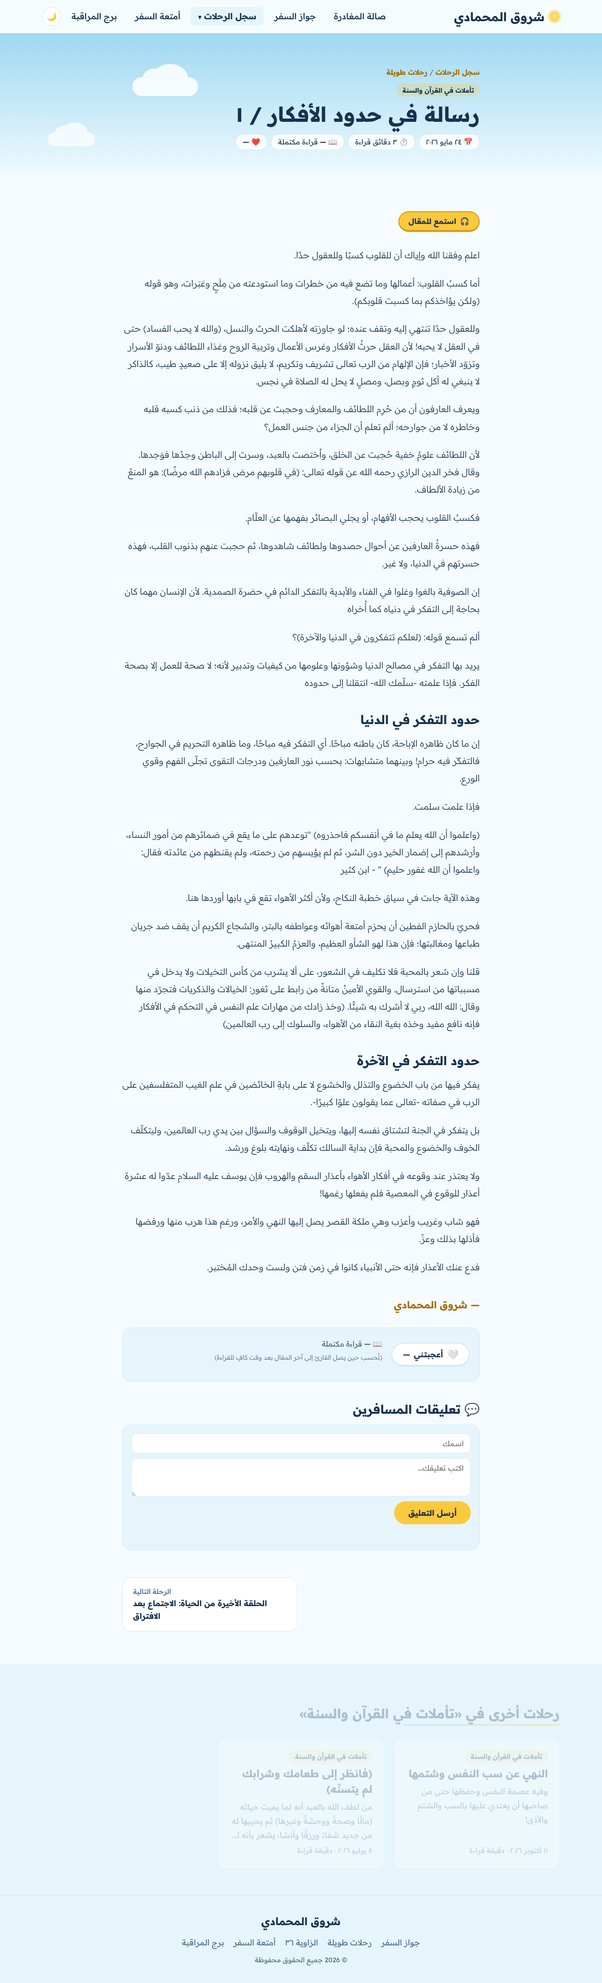
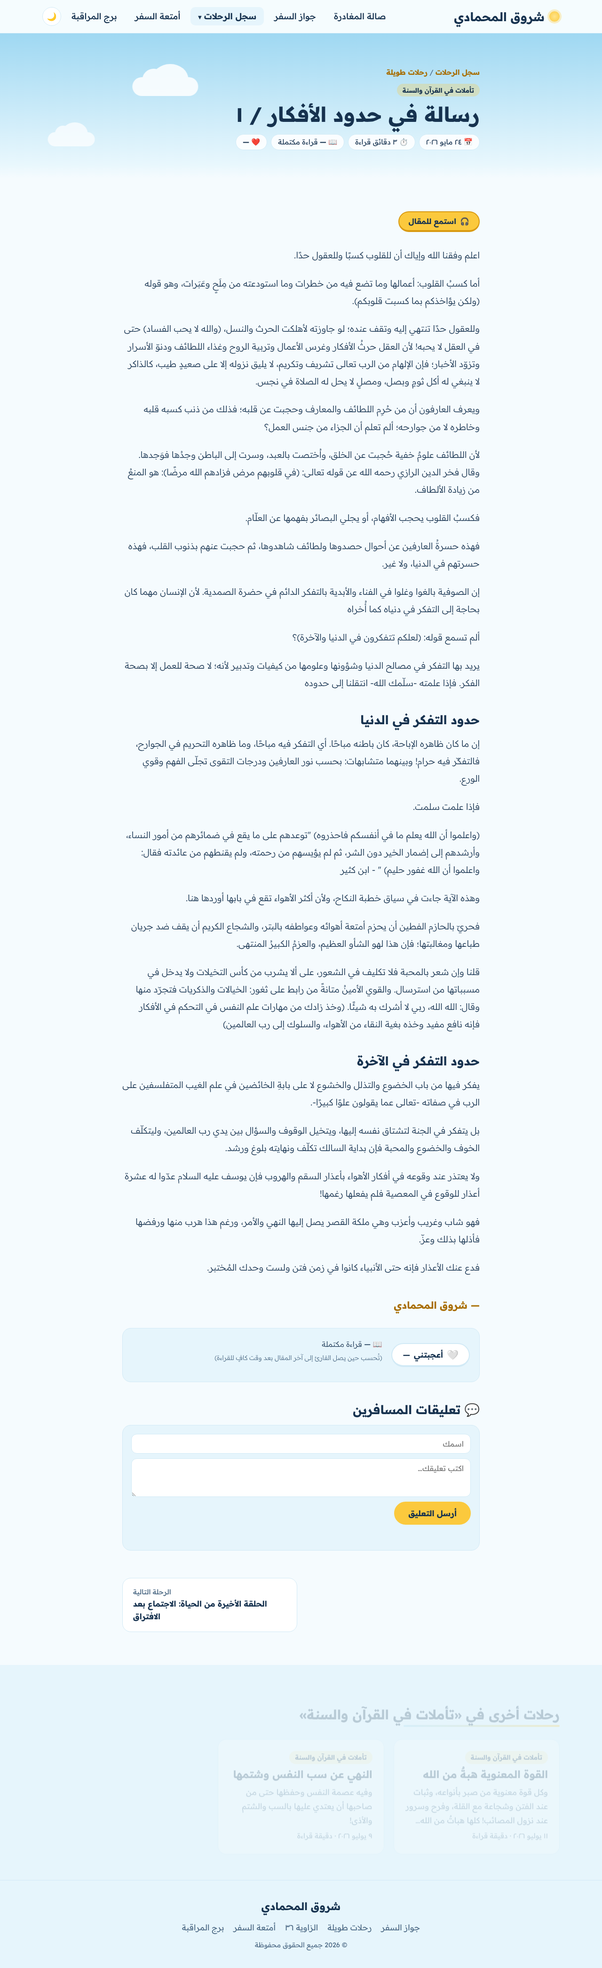
Add the article «القوة المعنوية هبةٌ من الله»
Claude-Session: https://claude.ai/code/session_0148avAa54TH8wvGnnB1ukQi

diff --git a/blog/articles/al-quwwa-al-manawiyya.html b/blog/articles/al-quwwa-al-manawiyya.html
@@ -1,0 +1,123 @@
+<!doctype html>
+<html lang="ar" dir="rtl">
+<head>
+  <meta charset="utf-8">
+  <meta name="viewport" content="width=device-width, initial-scale=1">
+  <title>القوة المعنوية هبةٌ من الله · شروق المحمادي</title>
+  <meta name="description" content="وكل قوة معنوية من صبر بأنواعه، وثبات عند الفتن وشجاعة مع القلة، وفرح وسرور عند نزول المصائب! كلها هباتٌ من الله تعالى وتأييد منه للعبد وليست من تلقاء نفسه">
+  <script>try{var t=localStorage.getItem("theme");if(t)document.documentElement.dataset.theme=t;}catch(e){}</script>
+  <link rel="preconnect" href="https://fonts.googleapis.com">
+  <link rel="preconnect" href="https://fonts.gstatic.com" crossorigin>
+  <link href="https://fonts.googleapis.com/css2?family=Readex+Pro:wght@300;400;500;600;700&family=Amiri+Quran&display=swap" rel="stylesheet">
+  <link rel="stylesheet" href="../../assets/styles.css">
+</head>
+<body>
+  <header class="site-header">
+    <div class="container nav">
+      <a href="../../index.html" class="logo"><span class="logo-sun" aria-hidden="true"></span>شروق المحمادي</a>
+      <button class="menu-toggle" aria-label="فتح القائمة" aria-expanded="false">☰</button>
+      <nav class="nav-links" aria-label="القائمة الرئيسية">
+        <a href="../../index.html">صالة المغادرة</a>
+        <a href="../../sira.html">جواز السفر</a>
+        <div class="has-sub">
+          <a href="../../blog/index.html" class="active">سجل الرحلات <span class="caret" aria-hidden="true">▾</span></a>
+          <div class="sub">
+            <a href="../../blog/articles.html" class="active">رحلات طويلة</a>
+            <a href="../../blog/zawiya-36.html">الزاوية ٣٦</a>
+          </div>
+        </div>
+        <a href="../../books.html">أمتعة السفر</a>
+        <a href="../../contact.html">برج المراقبة</a>
+        <button class="theme-toggle" aria-label="تبديل الوضع الليلي">🌙</button>
+      </nav>
+    </div>
+  </header>
+
+  <main>
+    <section class="page-hero article-hero">
+      <div class="clouds" aria-hidden="true"><span class="cloud c1"></span><span class="cloud c2"></span></div>
+      <div class="container narrow">
+        <nav class="crumbs" aria-label="مسار التنقل"><a href="../index.html">سجل الرحلات</a> / <a href="../articles.html">رحلات طويلة</a></nav>
+        <span class="tag">تأملات في القرآن والسنة</span>
+        <h1>القوة المعنوية هبةٌ من الله</h1>
+        <ul class="post-meta">
+          <li>📅 ١١ يوليو ٢٠٢٦</li>
+          <li>⏱ دقيقة قراءة</li>
+          <li>📖 <b class="read-count">…</b> قراءة مكتملة</li>
+          <li>❤ <b class="like-count">…</b></li>
+        </ul>
+      </div>
+    </section>
+
+    <article class="section" id="post" data-slug="al-quwwa-al-manawiyya" data-minutes="0.76">
+      <div class="container narrow prose">
+        <div class="listen" hidden>
+          <button class="listen-btn" type="button"><span class="listen-icon" aria-hidden="true">🎧</span> <span class="listen-label">استمع للمقال</span></button>
+          <button class="listen-stop" type="button" hidden>⏹ إيقاف</button>
+          <button class="listen-rate" type="button" hidden>السرعة ١×</button>
+          <span class="listen-status" role="status"></span>
+        </div>
+        <p>وكل قوة معنوية من صبر بأنواعه، وثبات عند الفتن وشجاعة مع القلة، وفرح وسرور عند نزول المصائب! كلها هباتٌ من الله تعالى وتأييد منه للعبد وليست من تلقاء نفسه</p>
+        <p>ألم تسمع قوله: (هو الذي أنزل السكينة في قلوب المؤمنين) ؟وقوله (واصبر وما صبرك إلا بالله)</p>
+        <p>وهذا التأييد ينزل على روح المؤمن إذا امتلأت بروح القرآن "والتَّأْيِيدُ التَّقْوِيَةُ والإقْدارُ عَلى العَمَلِ النَّفْسِيِّ وهو مُشْتَقٌّ مِنَ الأيْدِ وهو القُوَّةُ قالَ تَعالى ﴿واذْكُرْ عَبْدَنا داوُدَ ذا الأيْدِ﴾ [ص: ١٧] والأيْدُ مُشْتَقٌّ مِنَ اليَدِ لِأنَّها آلَةُ القُدْرَةِ والأحْسَنُ أنْ يَكُونَ مُشْتَقًّا مِنَ اليَدِ أيْ جَعَلَهُ ذا يَدٍ أيْ قُوَّةٍ، والمُرادُ هُنا قُوَّةٌ مَعْنَوِيَّةٌ وهي قُوَّةُ الرِّسالَةِ وقُوَّةُ الصَّبْرِ عَلى أذى قَوْمِهِ" - ابن عاشور</p>
+        <p>فالصبر على حمل رسالة القرآن والعمل بها والتغذي والتدبر والفهم هو من تأييد الله وتوفيقه لا من العبد نفسه، والصبر على حمل الرسالة هو الذي يعطي الصبر بالأنواع الأُخر: صبر المصيبة وعن المعصية. فهما ثمرة الصبر على الطاعة وأعظم وأقرب طاعة القرآن.</p>
+        <p class="signature">— شروق المحمادي</p>
+        <div class="engage">
+          <button class="like-btn" type="button" aria-pressed="false"><span class="heart" aria-hidden="true">🤍</span> أعجبتني <b class="like-count">…</b></button>
+          <p class="reads-note">📖 <b class="read-count">…</b> قراءة مكتملة <small>(تُحسب حين يصل القارئ إلى آخر المقال بعد وقت كافٍ للقراءة)</small></p>
+        </div>
+        <section class="comments" hidden aria-labelledby="comments-title">
+          <h2 id="comments-title">💬 تعليقات المسافرين</h2>
+          <form class="comment-form" novalidate>
+            <input name="name" type="text" maxlength="40" placeholder="اسمك" aria-label="الاسم" autocomplete="nickname">
+            <textarea name="body" rows="3" maxlength="1000" placeholder="اكتب تعليقك…" aria-label="التعليق"></textarea>
+            <input name="website" class="hp" type="text" tabindex="-1" autocomplete="off" aria-hidden="true">
+            <button type="submit" class="btn btn-primary">أرسل التعليق</button>
+            <p class="comment-status" role="status"></p>
+          </form>
+          <ol class="comment-list"></ol>
+          <p class="no-comments" hidden>لا تعليقات بعد… كن أول من يعلّق ✈</p>
+        </section>
+        <nav class="post-nav" aria-label="تنقل بين الرحلات"><a class="pn prev" href="an-nahy-an-sabb-an-nafs.html"><span>الرحلة السابقة</span>النهي عن سب النفس وشتمها</a></nav>
+      </div>
+    </article>
+
+    <section class="section alt">
+      <div class="container">
+        <h2 class="section-title">رحلات أخرى في «تأملات في القرآن والسنة»</h2>
+        <div class="posts">
+          <article class="post-card" data-tag="تأملات في القرآن والسنة">
+            <span class="tag">تأملات في القرآن والسنة</span>
+            <h3><a class="stretched" href="../articles/an-nahy-an-sabb-an-nafs.html">النهي عن سب النفس وشتمها</a></h3>
+            <p>وفيه عصمة النفس وحفظها حتى من صاحبها أن يعتدي عليها بالسب والشتم والأذى!</p>
+            <p class="meta">٩ يوليو ٢٠٢٦ · دقيقة قراءة</p>
+          </article>
+          <article class="post-card" data-tag="تأملات في القرآن والسنة">
+            <span class="tag">تأملات في القرآن والسنة</span>
+            <h3><a class="stretched" href="../articles/lam-yatasannah.html">(فانظر إلى طعامك وشرابك لم يتسنّه)</a></h3>
+            <p>من لطف الله بالعبد أنه لما يميت حياته (مالًا وصحةً ووحشةً وغيرها) ثم يحييها له من جديد شفاءً ورزقًا وأنسًا، يشعر بأنه لم ينقص منه شيء وبالفعل لم ينقص منه شيء، لأن الله جبره أعظم وكرمه أزود.</p>
+            <p class="meta">٨ يوليو ٢٠٢٦ · دقيقة قراءة</p>
+          </article>
+        </div>
+      </div>
+    </section>
+
+  </main>
+
+  <footer class="site-footer">
+    <div class="container footer-inner">
+      <p class="footer-name">شروق المحمادي</p>
+      <nav class="footer-links" aria-label="روابط التذييل">
+        <a href="../../sira.html">جواز السفر</a>
+        <a href="../../blog/articles.html">رحلات طويلة</a>
+        <a href="../../blog/zawiya-36.html">الزاوية ٣٦</a>
+        <a href="../../books.html">أمتعة السفر</a>
+        <a href="../../contact.html">برج المراقبة</a>
+      </nav>
+      <p class="copy">© <span class="year"></span> جميع الحقوق محفوظة</p>
+    </div>
+  </footer>
+
+  <script src="../../assets/script.js"></script>
+</body>
+</html>

diff --git a/blog/articles/an-nahy-an-sabb-an-nafs.html b/blog/articles/an-nahy-an-sabb-an-nafs.html
@@ -77,7 +77,7 @@
           <ol class="comment-list"></ol>
           <p class="no-comments" hidden>لا تعليقات بعد… كن أول من يعلّق ✈</p>
         </section>
-        <nav class="post-nav" aria-label="تنقل بين الرحلات"><a class="pn prev" href="lam-yatasannah.html"><span>الرحلة السابقة</span>(فانظر إلى طعامك وشرابك لم يتسنّه)</a></nav>
+        <nav class="post-nav" aria-label="تنقل بين الرحلات"><a class="pn prev" href="lam-yatasannah.html"><span>الرحلة السابقة</span>(فانظر إلى طعامك وشرابك لم يتسنّه)</a><a class="pn next" href="al-quwwa-al-manawiyya.html"><span>الرحلة التالية</span>القوة المعنوية هبةٌ من الله</a></nav>
       </div>
     </article>
 
@@ -87,15 +87,15 @@
         <div class="posts">
           <article class="post-card" data-tag="تأملات في القرآن والسنة">
             <span class="tag">تأملات في القرآن والسنة</span>
-            <h3><a class="stretched" href="../articles/lam-yatasannah.html">(فانظر إلى طعامك وشرابك لم يتسنّه)</a></h3>
-            <p>من لطف الله بالعبد أنه لما يميت حياته (مالًا وصحةً ووحشةً وغيرها) ثم يحييها له من جديد شفاءً ورزقًا وأنسًا، يشعر بأنه لم ينقص منه شيء وبالفعل لم ينقص منه شيء، لأن الله جبره أعظم وكرمه أزود.</p>
-            <p class="meta">٨ يوليو ٢٠٢٦ · دقيقة قراءة</p>
+            <h3><a class="stretched" href="../articles/al-quwwa-al-manawiyya.html">القوة المعنوية هبةٌ من الله</a></h3>
+            <p>وكل قوة معنوية من صبر بأنواعه، وثبات عند الفتن وشجاعة مع القلة، وفرح وسرور عند نزول المصائب! كلها هباتٌ من الله تعالى وتأييد منه للعبد وليست من تلقاء نفسه</p>
+            <p class="meta">١١ يوليو ٢٠٢٦ · دقيقة قراءة</p>
           </article>
           <article class="post-card" data-tag="تأملات في القرآن والسنة">
             <span class="tag">تأملات في القرآن والسنة</span>
-            <h3><a class="stretched" href="../articles/fasbir-inna-wad-allah-haq.html">تدبر في قوله تعالى (فاصبر إن وعد الله حق ولا يستخفنك الذين لا يوقنون)</a></h3>
-            <p>التفسير: وعد الله لك بالنصر عليهم حق لا شك فيه</p>
-            <p class="meta">٦ يوليو ٢٠٢٦ · دقيقة قراءة</p>
+            <h3><a class="stretched" href="../articles/lam-yatasannah.html">(فانظر إلى طعامك وشرابك لم يتسنّه)</a></h3>
+            <p>من لطف الله بالعبد أنه لما يميت حياته (مالًا وصحةً ووحشةً وغيرها) ثم يحييها له من جديد شفاءً ورزقًا وأنسًا، يشعر بأنه لم ينقص منه شيء وبالفعل لم ينقص منه شيء، لأن الله جبره أعظم وكرمه أزود.</p>
+            <p class="meta">٨ يوليو ٢٠٢٦ · دقيقة قراءة</p>
           </article>
         </div>
       </div>

diff --git a/blog/index.html b/blog/index.html
@@ -50,7 +50,7 @@
             <span class="door-icon">✍</span>
             <h2>رحلات طويلة</h2>
             <p>نصوص أطول أتعمّق فيها في فكرة أو تجربة أو كتاب.</p>
-            <span class="count">١١ رحلات</span>
+            <span class="count">١٢ رحلات</span>
           </a>
           <a class="blog-door night" href="zawiya-36.html">
             <span class="door-icon">🌙</span>
@@ -71,6 +71,12 @@
         <div class="posts">
           <article class="post-card" data-tag="تأملات في القرآن والسنة">
             <span class="tag">تأملات في القرآن والسنة</span>
+            <h3><a class="stretched" href="articles/al-quwwa-al-manawiyya.html">القوة المعنوية هبةٌ من الله</a></h3>
+            <p>وكل قوة معنوية من صبر بأنواعه، وثبات عند الفتن وشجاعة مع القلة، وفرح وسرور عند نزول المصائب! كلها هباتٌ من الله تعالى وتأييد منه للعبد وليست من تلقاء نفسه</p>
+            <p class="meta">١١ يوليو ٢٠٢٦ · دقيقة قراءة</p>
+          </article>
+          <article class="post-card" data-tag="تأملات في القرآن والسنة">
+            <span class="tag">تأملات في القرآن والسنة</span>
             <h3><a class="stretched" href="articles/an-nahy-an-sabb-an-nafs.html">النهي عن سب النفس وشتمها</a></h3>
             <p>وفيه عصمة النفس وحفظها حتى من صاحبها أن يعتدي عليها بالسب والشتم والأذى!</p>
             <p class="meta">٩ يوليو ٢٠٢٦ · دقيقة قراءة</p>
@@ -80,12 +86,6 @@
             <h3><a class="stretched" href="articles/lam-yatasannah.html">(فانظر إلى طعامك وشرابك لم يتسنّه)</a></h3>
             <p>من لطف الله بالعبد أنه لما يميت حياته (مالًا وصحةً ووحشةً وغيرها) ثم يحييها له من جديد شفاءً ورزقًا وأنسًا، يشعر بأنه لم ينقص منه شيء وبالفعل لم ينقص منه شيء، لأن الله جبره أعظم وكرمه أزود.</p>
             <p class="meta">٨ يوليو ٢٠٢٦ · دقيقة قراءة</p>
-          </article>
-          <article class="post-card" data-tag="قصائد">
-            <span class="tag">قصائد</span>
-            <h3><a class="stretched" href="articles/ijal-ad-dunya.html">اِجْعَلِ الدُّنْيَا وَرَاءَ ظَهْرِكْ</a></h3>
-            <p>اِجْعَلِ الدُّنْيَا وَرَاءَ ظَهْرِكْ / وَقُلِ: اللهُ أَكْبَرْ!</p>
-            <p class="meta">٧ يوليو ٢٠٢٦ · دقيقة قراءة</p>
           </article>
         </div>
       </div>

diff --git a/index.html b/index.html
@@ -77,6 +77,12 @@
         <div class="posts">
           <article class="post-card" data-tag="تأملات في القرآن والسنة">
             <span class="tag">تأملات في القرآن والسنة</span>
+            <h3><a class="stretched" href="blog/articles/al-quwwa-al-manawiyya.html">القوة المعنوية هبةٌ من الله</a></h3>
+            <p>وكل قوة معنوية من صبر بأنواعه، وثبات عند الفتن وشجاعة مع القلة، وفرح وسرور عند نزول المصائب! كلها هباتٌ من الله تعالى وتأييد منه للعبد وليست من تلقاء نفسه</p>
+            <p class="meta">١١ يوليو ٢٠٢٦ · دقيقة قراءة</p>
+          </article>
+          <article class="post-card" data-tag="تأملات في القرآن والسنة">
+            <span class="tag">تأملات في القرآن والسنة</span>
             <h3><a class="stretched" href="blog/articles/an-nahy-an-sabb-an-nafs.html">النهي عن سب النفس وشتمها</a></h3>
             <p>وفيه عصمة النفس وحفظها حتى من صاحبها أن يعتدي عليها بالسب والشتم والأذى!</p>
             <p class="meta">٩ يوليو ٢٠٢٦ · دقيقة قراءة</p>
@@ -86,12 +92,6 @@
             <h3><a class="stretched" href="blog/articles/lam-yatasannah.html">(فانظر إلى طعامك وشرابك لم يتسنّه)</a></h3>
             <p>من لطف الله بالعبد أنه لما يميت حياته (مالًا وصحةً ووحشةً وغيرها) ثم يحييها له من جديد شفاءً ورزقًا وأنسًا، يشعر بأنه لم ينقص منه شيء وبالفعل لم ينقص منه شيء، لأن الله جبره أعظم وكرمه أزود.</p>
             <p class="meta">٨ يوليو ٢٠٢٦ · دقيقة قراءة</p>
-          </article>
-          <article class="post-card" data-tag="قصائد">
-            <span class="tag">قصائد</span>
-            <h3><a class="stretched" href="blog/articles/ijal-ad-dunya.html">اِجْعَلِ الدُّنْيَا وَرَاءَ ظَهْرِكْ</a></h3>
-            <p>اِجْعَلِ الدُّنْيَا وَرَاءَ ظَهْرِكْ / وَقُلِ: اللهُ أَكْبَرْ!</p>
-            <p class="meta">٧ يوليو ٢٠٢٦ · دقيقة قراءة</p>
           </article>
         </div>
       </div>

diff --git a/blog/articles/al-ijtima-bad-al-iftiraq.html b/blog/articles/al-ijtima-bad-al-iftiraq.html
@@ -149,15 +149,15 @@
         <div class="posts">
           <article class="post-card" data-tag="تأملات في القرآن والسنة">
             <span class="tag">تأملات في القرآن والسنة</span>
-            <h3><a class="stretched" href="../articles/an-nahy-an-sabb-an-nafs.html">النهي عن سب النفس وشتمها</a></h3>
-            <p>وفيه عصمة النفس وحفظها حتى من صاحبها أن يعتدي عليها بالسب والشتم والأذى!</p>
-            <p class="meta">٩ يوليو ٢٠٢٦ · دقيقة قراءة</p>
+            <h3><a class="stretched" href="../articles/al-quwwa-al-manawiyya.html">القوة المعنوية هبةٌ من الله</a></h3>
+            <p>وكل قوة معنوية من صبر بأنواعه، وثبات عند الفتن وشجاعة مع القلة، وفرح وسرور عند نزول المصائب! كلها هباتٌ من الله تعالى وتأييد منه للعبد وليست من تلقاء نفسه</p>
+            <p class="meta">١١ يوليو ٢٠٢٦ · دقيقة قراءة</p>
           </article>
           <article class="post-card" data-tag="تأملات في القرآن والسنة">
             <span class="tag">تأملات في القرآن والسنة</span>
-            <h3><a class="stretched" href="../articles/lam-yatasannah.html">(فانظر إلى طعامك وشرابك لم يتسنّه)</a></h3>
-            <p>من لطف الله بالعبد أنه لما يميت حياته (مالًا وصحةً ووحشةً وغيرها) ثم يحييها له من جديد شفاءً ورزقًا وأنسًا، يشعر بأنه لم ينقص منه شيء وبالفعل لم ينقص منه شيء، لأن الله جبره أعظم وكرمه أزود.</p>
-            <p class="meta">٨ يوليو ٢٠٢٦ · دقيقة قراءة</p>
+            <h3><a class="stretched" href="../articles/an-nahy-an-sabb-an-nafs.html">النهي عن سب النفس وشتمها</a></h3>
+            <p>وفيه عصمة النفس وحفظها حتى من صاحبها أن يعتدي عليها بالسب والشتم والأذى!</p>
+            <p class="meta">٩ يوليو ٢٠٢٦ · دقيقة قراءة</p>
           </article>
         </div>
       </div>

diff --git a/blog/articles/aw-ka-sayyib.html b/blog/articles/aw-ka-sayyib.html
@@ -100,15 +100,15 @@
         <div class="posts">
           <article class="post-card" data-tag="تأملات في القرآن والسنة">
             <span class="tag">تأملات في القرآن والسنة</span>
-            <h3><a class="stretched" href="../articles/an-nahy-an-sabb-an-nafs.html">النهي عن سب النفس وشتمها</a></h3>
-            <p>وفيه عصمة النفس وحفظها حتى من صاحبها أن يعتدي عليها بالسب والشتم والأذى!</p>
-            <p class="meta">٩ يوليو ٢٠٢٦ · دقيقة قراءة</p>
+            <h3><a class="stretched" href="../articles/al-quwwa-al-manawiyya.html">القوة المعنوية هبةٌ من الله</a></h3>
+            <p>وكل قوة معنوية من صبر بأنواعه، وثبات عند الفتن وشجاعة مع القلة، وفرح وسرور عند نزول المصائب! كلها هباتٌ من الله تعالى وتأييد منه للعبد وليست من تلقاء نفسه</p>
+            <p class="meta">١١ يوليو ٢٠٢٦ · دقيقة قراءة</p>
           </article>
           <article class="post-card" data-tag="تأملات في القرآن والسنة">
             <span class="tag">تأملات في القرآن والسنة</span>
-            <h3><a class="stretched" href="../articles/lam-yatasannah.html">(فانظر إلى طعامك وشرابك لم يتسنّه)</a></h3>
-            <p>من لطف الله بالعبد أنه لما يميت حياته (مالًا وصحةً ووحشةً وغيرها) ثم يحييها له من جديد شفاءً ورزقًا وأنسًا، يشعر بأنه لم ينقص منه شيء وبالفعل لم ينقص منه شيء، لأن الله جبره أعظم وكرمه أزود.</p>
-            <p class="meta">٨ يوليو ٢٠٢٦ · دقيقة قراءة</p>
+            <h3><a class="stretched" href="../articles/an-nahy-an-sabb-an-nafs.html">النهي عن سب النفس وشتمها</a></h3>
+            <p>وفيه عصمة النفس وحفظها حتى من صاحبها أن يعتدي عليها بالسب والشتم والأذى!</p>
+            <p class="meta">٩ يوليو ٢٠٢٦ · دقيقة قراءة</p>
           </article>
         </div>
       </div>

diff --git a/blog/articles/hudud-al-afkar-1.html b/blog/articles/hudud-al-afkar-1.html
@@ -107,15 +107,15 @@
         <div class="posts">
           <article class="post-card" data-tag="تأملات في القرآن والسنة">
             <span class="tag">تأملات في القرآن والسنة</span>
-            <h3><a class="stretched" href="../articles/an-nahy-an-sabb-an-nafs.html">النهي عن سب النفس وشتمها</a></h3>
-            <p>وفيه عصمة النفس وحفظها حتى من صاحبها أن يعتدي عليها بالسب والشتم والأذى!</p>
-            <p class="meta">٩ يوليو ٢٠٢٦ · دقيقة قراءة</p>
+            <h3><a class="stretched" href="../articles/al-quwwa-al-manawiyya.html">القوة المعنوية هبةٌ من الله</a></h3>
+            <p>وكل قوة معنوية من صبر بأنواعه، وثبات عند الفتن وشجاعة مع القلة، وفرح وسرور عند نزول المصائب! كلها هباتٌ من الله تعالى وتأييد منه للعبد وليست من تلقاء نفسه</p>
+            <p class="meta">١١ يوليو ٢٠٢٦ · دقيقة قراءة</p>
           </article>
           <article class="post-card" data-tag="تأملات في القرآن والسنة">
             <span class="tag">تأملات في القرآن والسنة</span>
-            <h3><a class="stretched" href="../articles/lam-yatasannah.html">(فانظر إلى طعامك وشرابك لم يتسنّه)</a></h3>
-            <p>من لطف الله بالعبد أنه لما يميت حياته (مالًا وصحةً ووحشةً وغيرها) ثم يحييها له من جديد شفاءً ورزقًا وأنسًا، يشعر بأنه لم ينقص منه شيء وبالفعل لم ينقص منه شيء، لأن الله جبره أعظم وكرمه أزود.</p>
-            <p class="meta">٨ يوليو ٢٠٢٦ · دقيقة قراءة</p>
+            <h3><a class="stretched" href="../articles/an-nahy-an-sabb-an-nafs.html">النهي عن سب النفس وشتمها</a></h3>
+            <p>وفيه عصمة النفس وحفظها حتى من صاحبها أن يعتدي عليها بالسب والشتم والأذى!</p>
+            <p class="meta">٩ يوليو ٢٠٢٦ · دقيقة قراءة</p>
           </article>
         </div>
       </div>

diff --git a/blog/articles/al-ghina-bil-quran.html b/blog/articles/al-ghina-bil-quran.html
@@ -97,15 +97,15 @@
         <div class="posts">
           <article class="post-card" data-tag="تأملات في القرآن والسنة">
             <span class="tag">تأملات في القرآن والسنة</span>
-            <h3><a class="stretched" href="../articles/an-nahy-an-sabb-an-nafs.html">النهي عن سب النفس وشتمها</a></h3>
-            <p>وفيه عصمة النفس وحفظها حتى من صاحبها أن يعتدي عليها بالسب والشتم والأذى!</p>
-            <p class="meta">٩ يوليو ٢٠٢٦ · دقيقة قراءة</p>
+            <h3><a class="stretched" href="../articles/al-quwwa-al-manawiyya.html">القوة المعنوية هبةٌ من الله</a></h3>
+            <p>وكل قوة معنوية من صبر بأنواعه، وثبات عند الفتن وشجاعة مع القلة، وفرح وسرور عند نزول المصائب! كلها هباتٌ من الله تعالى وتأييد منه للعبد وليست من تلقاء نفسه</p>
+            <p class="meta">١١ يوليو ٢٠٢٦ · دقيقة قراءة</p>
           </article>
           <article class="post-card" data-tag="تأملات في القرآن والسنة">
             <span class="tag">تأملات في القرآن والسنة</span>
-            <h3><a class="stretched" href="../articles/lam-yatasannah.html">(فانظر إلى طعامك وشرابك لم يتسنّه)</a></h3>
-            <p>من لطف الله بالعبد أنه لما يميت حياته (مالًا وصحةً ووحشةً وغيرها) ثم يحييها له من جديد شفاءً ورزقًا وأنسًا، يشعر بأنه لم ينقص منه شيء وبالفعل لم ينقص منه شيء، لأن الله جبره أعظم وكرمه أزود.</p>
-            <p class="meta">٨ يوليو ٢٠٢٦ · دقيقة قراءة</p>
+            <h3><a class="stretched" href="../articles/an-nahy-an-sabb-an-nafs.html">النهي عن سب النفس وشتمها</a></h3>
+            <p>وفيه عصمة النفس وحفظها حتى من صاحبها أن يعتدي عليها بالسب والشتم والأذى!</p>
+            <p class="meta">٩ يوليو ٢٠٢٦ · دقيقة قراءة</p>
           </article>
         </div>
       </div>

diff --git a/blog/articles/al-habl.html b/blog/articles/al-habl.html
@@ -92,15 +92,15 @@
         <div class="posts">
           <article class="post-card" data-tag="تأملات في القرآن والسنة">
             <span class="tag">تأملات في القرآن والسنة</span>
-            <h3><a class="stretched" href="../articles/an-nahy-an-sabb-an-nafs.html">النهي عن سب النفس وشتمها</a></h3>
-            <p>وفيه عصمة النفس وحفظها حتى من صاحبها أن يعتدي عليها بالسب والشتم والأذى!</p>
-            <p class="meta">٩ يوليو ٢٠٢٦ · دقيقة قراءة</p>
+            <h3><a class="stretched" href="../articles/al-quwwa-al-manawiyya.html">القوة المعنوية هبةٌ من الله</a></h3>
+            <p>وكل قوة معنوية من صبر بأنواعه، وثبات عند الفتن وشجاعة مع القلة، وفرح وسرور عند نزول المصائب! كلها هباتٌ من الله تعالى وتأييد منه للعبد وليست من تلقاء نفسه</p>
+            <p class="meta">١١ يوليو ٢٠٢٦ · دقيقة قراءة</p>
           </article>
           <article class="post-card" data-tag="تأملات في القرآن والسنة">
             <span class="tag">تأملات في القرآن والسنة</span>
-            <h3><a class="stretched" href="../articles/lam-yatasannah.html">(فانظر إلى طعامك وشرابك لم يتسنّه)</a></h3>
-            <p>من لطف الله بالعبد أنه لما يميت حياته (مالًا وصحةً ووحشةً وغيرها) ثم يحييها له من جديد شفاءً ورزقًا وأنسًا، يشعر بأنه لم ينقص منه شيء وبالفعل لم ينقص منه شيء، لأن الله جبره أعظم وكرمه أزود.</p>
-            <p class="meta">٨ يوليو ٢٠٢٦ · دقيقة قراءة</p>
+            <h3><a class="stretched" href="../articles/an-nahy-an-sabb-an-nafs.html">النهي عن سب النفس وشتمها</a></h3>
+            <p>وفيه عصمة النفس وحفظها حتى من صاحبها أن يعتدي عليها بالسب والشتم والأذى!</p>
+            <p class="meta">٩ يوليو ٢٠٢٦ · دقيقة قراءة</p>
           </article>
         </div>
       </div>

diff --git a/blog/articles/fasbir-inna-wad-allah-haq.html b/blog/articles/fasbir-inna-wad-allah-haq.html
@@ -88,15 +88,15 @@
         <div class="posts">
           <article class="post-card" data-tag="تأملات في القرآن والسنة">
             <span class="tag">تأملات في القرآن والسنة</span>
-            <h3><a class="stretched" href="../articles/an-nahy-an-sabb-an-nafs.html">النهي عن سب النفس وشتمها</a></h3>
-            <p>وفيه عصمة النفس وحفظها حتى من صاحبها أن يعتدي عليها بالسب والشتم والأذى!</p>
-            <p class="meta">٩ يوليو ٢٠٢٦ · دقيقة قراءة</p>
+            <h3><a class="stretched" href="../articles/al-quwwa-al-manawiyya.html">القوة المعنوية هبةٌ من الله</a></h3>
+            <p>وكل قوة معنوية من صبر بأنواعه، وثبات عند الفتن وشجاعة مع القلة، وفرح وسرور عند نزول المصائب! كلها هباتٌ من الله تعالى وتأييد منه للعبد وليست من تلقاء نفسه</p>
+            <p class="meta">١١ يوليو ٢٠٢٦ · دقيقة قراءة</p>
           </article>
           <article class="post-card" data-tag="تأملات في القرآن والسنة">
             <span class="tag">تأملات في القرآن والسنة</span>
-            <h3><a class="stretched" href="../articles/lam-yatasannah.html">(فانظر إلى طعامك وشرابك لم يتسنّه)</a></h3>
-            <p>من لطف الله بالعبد أنه لما يميت حياته (مالًا وصحةً ووحشةً وغيرها) ثم يحييها له من جديد شفاءً ورزقًا وأنسًا، يشعر بأنه لم ينقص منه شيء وبالفعل لم ينقص منه شيء، لأن الله جبره أعظم وكرمه أزود.</p>
-            <p class="meta">٨ يوليو ٢٠٢٦ · دقيقة قراءة</p>
+            <h3><a class="stretched" href="../articles/an-nahy-an-sabb-an-nafs.html">النهي عن سب النفس وشتمها</a></h3>
+            <p>وفيه عصمة النفس وحفظها حتى من صاحبها أن يعتدي عليها بالسب والشتم والأذى!</p>
+            <p class="meta">٩ يوليو ٢٠٢٦ · دقيقة قراءة</p>
           </article>
         </div>
       </div>

diff --git a/blog/articles/la-tamanna-ala-yusuf.html b/blog/articles/la-tamanna-ala-yusuf.html
@@ -97,15 +97,15 @@
         <div class="posts">
           <article class="post-card" data-tag="تأملات في القرآن والسنة">
             <span class="tag">تأملات في القرآن والسنة</span>
-            <h3><a class="stretched" href="../articles/an-nahy-an-sabb-an-nafs.html">النهي عن سب النفس وشتمها</a></h3>
-            <p>وفيه عصمة النفس وحفظها حتى من صاحبها أن يعتدي عليها بالسب والشتم والأذى!</p>
-            <p class="meta">٩ يوليو ٢٠٢٦ · دقيقة قراءة</p>
+            <h3><a class="stretched" href="../articles/al-quwwa-al-manawiyya.html">القوة المعنوية هبةٌ من الله</a></h3>
+            <p>وكل قوة معنوية من صبر بأنواعه، وثبات عند الفتن وشجاعة مع القلة، وفرح وسرور عند نزول المصائب! كلها هباتٌ من الله تعالى وتأييد منه للعبد وليست من تلقاء نفسه</p>
+            <p class="meta">١١ يوليو ٢٠٢٦ · دقيقة قراءة</p>
           </article>
           <article class="post-card" data-tag="تأملات في القرآن والسنة">
             <span class="tag">تأملات في القرآن والسنة</span>
-            <h3><a class="stretched" href="../articles/lam-yatasannah.html">(فانظر إلى طعامك وشرابك لم يتسنّه)</a></h3>
-            <p>من لطف الله بالعبد أنه لما يميت حياته (مالًا وصحةً ووحشةً وغيرها) ثم يحييها له من جديد شفاءً ورزقًا وأنسًا، يشعر بأنه لم ينقص منه شيء وبالفعل لم ينقص منه شيء، لأن الله جبره أعظم وكرمه أزود.</p>
-            <p class="meta">٨ يوليو ٢٠٢٦ · دقيقة قراءة</p>
+            <h3><a class="stretched" href="../articles/an-nahy-an-sabb-an-nafs.html">النهي عن سب النفس وشتمها</a></h3>
+            <p>وفيه عصمة النفس وحفظها حتى من صاحبها أن يعتدي عليها بالسب والشتم والأذى!</p>
+            <p class="meta">٩ يوليو ٢٠٢٦ · دقيقة قراءة</p>
           </article>
         </div>
       </div>

diff --git a/blog/articles/wa-in-kana-makruhum.html b/blog/articles/wa-in-kana-makruhum.html
@@ -88,15 +88,15 @@
         <div class="posts">
           <article class="post-card" data-tag="تأملات في القرآن والسنة">
             <span class="tag">تأملات في القرآن والسنة</span>
-            <h3><a class="stretched" href="../articles/an-nahy-an-sabb-an-nafs.html">النهي عن سب النفس وشتمها</a></h3>
-            <p>وفيه عصمة النفس وحفظها حتى من صاحبها أن يعتدي عليها بالسب والشتم والأذى!</p>
-            <p class="meta">٩ يوليو ٢٠٢٦ · دقيقة قراءة</p>
+            <h3><a class="stretched" href="../articles/al-quwwa-al-manawiyya.html">القوة المعنوية هبةٌ من الله</a></h3>
+            <p>وكل قوة معنوية من صبر بأنواعه، وثبات عند الفتن وشجاعة مع القلة، وفرح وسرور عند نزول المصائب! كلها هباتٌ من الله تعالى وتأييد منه للعبد وليست من تلقاء نفسه</p>
+            <p class="meta">١١ يوليو ٢٠٢٦ · دقيقة قراءة</p>
           </article>
           <article class="post-card" data-tag="تأملات في القرآن والسنة">
             <span class="tag">تأملات في القرآن والسنة</span>
-            <h3><a class="stretched" href="../articles/lam-yatasannah.html">(فانظر إلى طعامك وشرابك لم يتسنّه)</a></h3>
-            <p>من لطف الله بالعبد أنه لما يميت حياته (مالًا وصحةً ووحشةً وغيرها) ثم يحييها له من جديد شفاءً ورزقًا وأنسًا، يشعر بأنه لم ينقص منه شيء وبالفعل لم ينقص منه شيء، لأن الله جبره أعظم وكرمه أزود.</p>
-            <p class="meta">٨ يوليو ٢٠٢٦ · دقيقة قراءة</p>
+            <h3><a class="stretched" href="../articles/an-nahy-an-sabb-an-nafs.html">النهي عن سب النفس وشتمها</a></h3>
+            <p>وفيه عصمة النفس وحفظها حتى من صاحبها أن يعتدي عليها بالسب والشتم والأذى!</p>
+            <p class="meta">٩ يوليو ٢٠٢٦ · دقيقة قراءة</p>
           </article>
         </div>
       </div>
